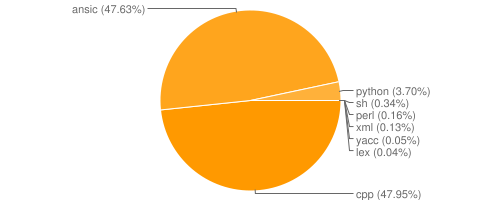
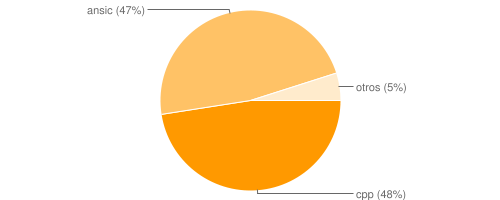
Normalize lines of code: languages under 5% are not showed in graphs

Changed region(s): [[0.12, 0.0, 0.87, 0.78], [0.75, 0.93, 0.84, 1.0]]

diff --git a/code_pie.py b/code_pie.py
@@ -1,6 +1,7 @@
 #!/usr/bin/python
 
 import sys
+import os
 from pygooglechart import PieChart2D
 
 chart = PieChart2D(500, 200)
@@ -30,5 +31,7 @@ chart.set_pie_labels(legend_array)
 # Print the chart URL
 print chart.get_url()
 
+
 # Download the chart
-chart.download('./images/lines_of_code_'+str(datafile.split('.')[0]) + '.png')
+name = os.path.basename(datafile)
+chart.download('./images/lines_of_code_'+str(name.split('.')[0]) + '.png')
